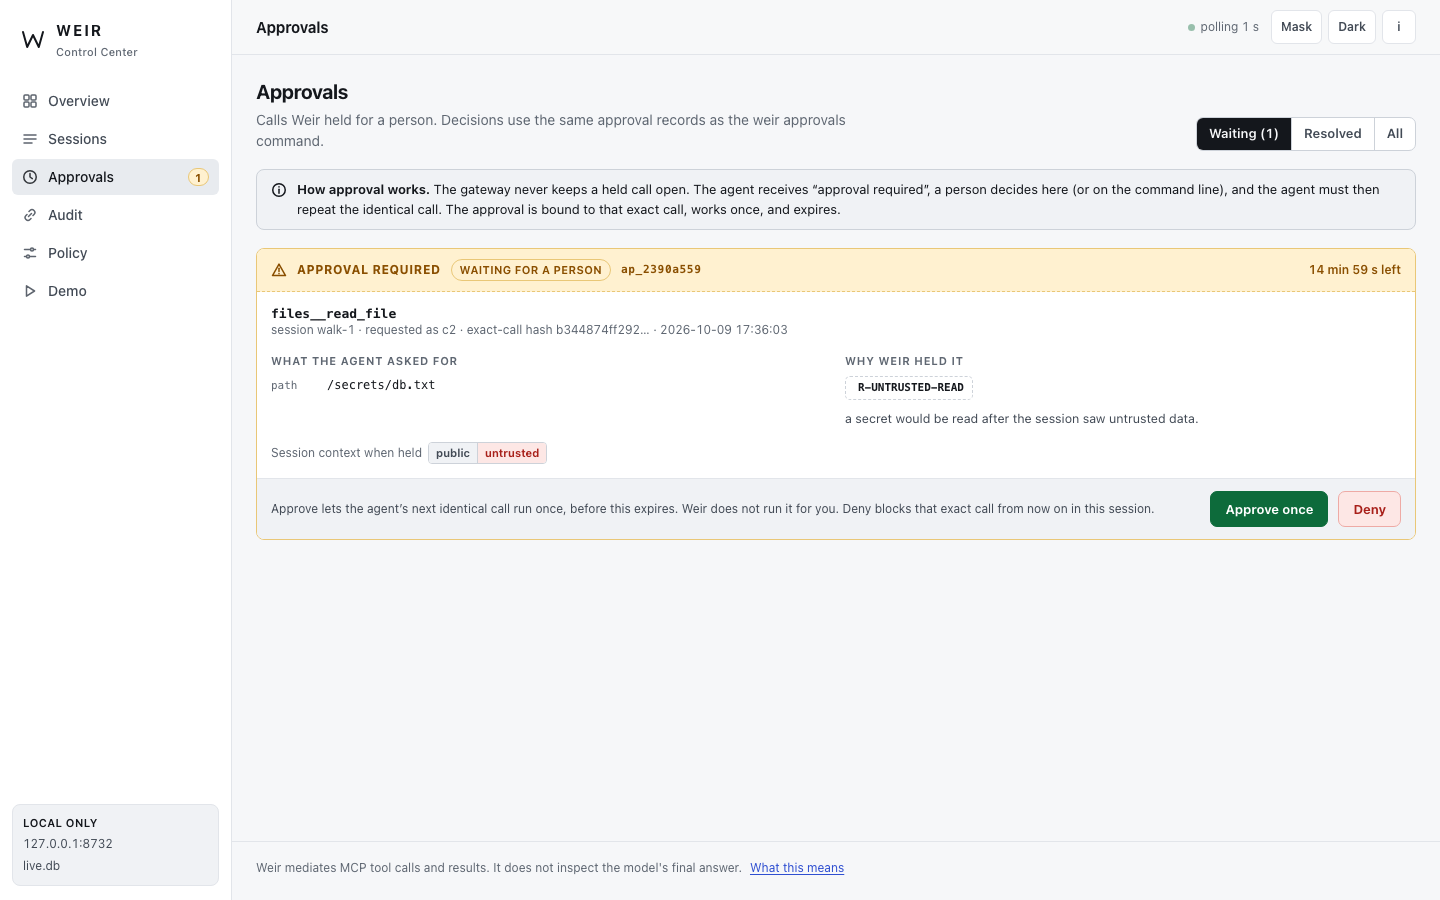
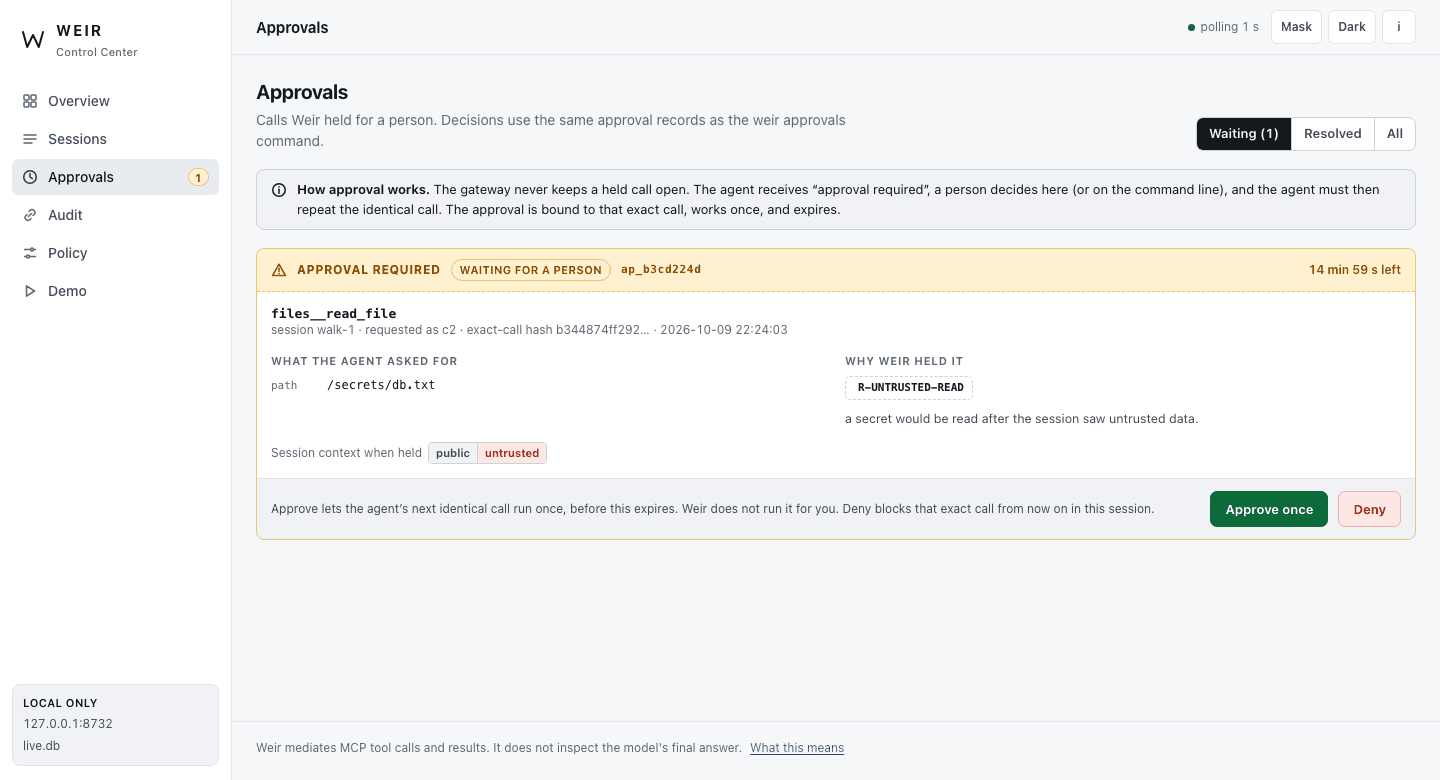
Control Center: clean screenshots (rule inspector and audit added), chip-spacing fix, CI log lists the browser tests
- Screenshots recaptured from one real stdio run in the invented world, free of overlays, as small palette PNGs;
  docs/assets gains dashboard-rule.png and dashboard-audit.png.
- app.css: the spacing rule added for card bodies pushed the second and later chips of a flex row down; it is now limited
  to the stacked elements it was meant for.
- CI: the control-center job uses `-o addopts=` so pytest prints its summary, and `-rP` so the log lists every browser
  test and the "tests 26, pass 26" line.

No file under eval/, src/mcp_weir/, src/weir_testbed/ or examples/ changed.

diff --git a/src/weir_dashboard/static/app.css b/src/weir_dashboard/static/app.css
@@ -101,7 +101,7 @@ main { flex: 1; padding: 22px 24px 28px; min-width: 0; outline: none; }
 .card-h h3 { font-size: 11px; text-transform: uppercase; letter-spacing: 0.07em; color: var(--text-3); font-weight: 650; }
 .card-h h3.mono { text-transform: none; letter-spacing: 0; font-size: 13px; color: var(--text); }
 .card-b { padding: 14px; }
-.card-b > * + * { margin-top: 10px; }
+.card-b > .big-status + *, .card-b > dl + p, .card-b > ul + p, .card-b > p + p, .card-b > p + .banner { margin-top: 10px; }
 .label { font-size: 11px; text-transform: uppercase; letter-spacing: 0.07em; color: var(--text-3); font-weight: 650; }
 .kpis { display: grid; grid-template-columns: repeat(4, minmax(0, 1fr)); gap: 12px; }
 .kpi { padding: 14px; display: grid; gap: 6px; align-content: start; }

diff --git a/tests/test_dashboard_ui.py b/tests/test_dashboard_ui.py
@@ -84,6 +84,7 @@ def test_the_interface_in_a_real_browser(tmp_path):
             text=True,
             timeout=600,
         )
+    print(r.stdout)  # shown by `pytest -rP`: the CI log lists every browser test and the pass count
     if os.environ.get("WEIR_UI_LOG"):
         Path(os.environ["WEIR_UI_LOG"]).write_text(r.stdout + r.stderr)
     summary = "\n".join(line for line in r.stdout.splitlines() if line.lstrip().startswith(("✔", "✖")))

diff --git a/docs/dashboard.md b/docs/dashboard.md
@@ -49,6 +49,10 @@ To look at the databases the existing demo writes: `python -m weir_eval.demo --o
 
 ![recorded data-flow relationships](assets/dashboard-provenance.png)
 
+![the rule inspector explaining why a rule fired on one call](assets/dashboard-rule.png)
+
+![the audit view after Verify chain](assets/dashboard-audit.png)
+
 **Rule inspector.** Click any rule chip. The table behind it (`src/weir_dashboard/rules.py`) restates `docs/policy.md` section 3 and the messages in `decision.py`; the configured action is read from the policy (or the gateway defaults if no file was passed); "seen here" counts come from your events. A test fails if a rule code appears in the gateway source but not in the table.
 
 **Words.** Weir's verdict names are ALLOW, APPROVE and DENY. The interface says HOLD for APPROVE (a person can decide) and DENY for DENY (blocked; an approval cannot override it). A call that was held and later ran after approval is shown as HOLD with "RAN AFTER APPROVAL". The gateway's own verdict name is in each call's details.
